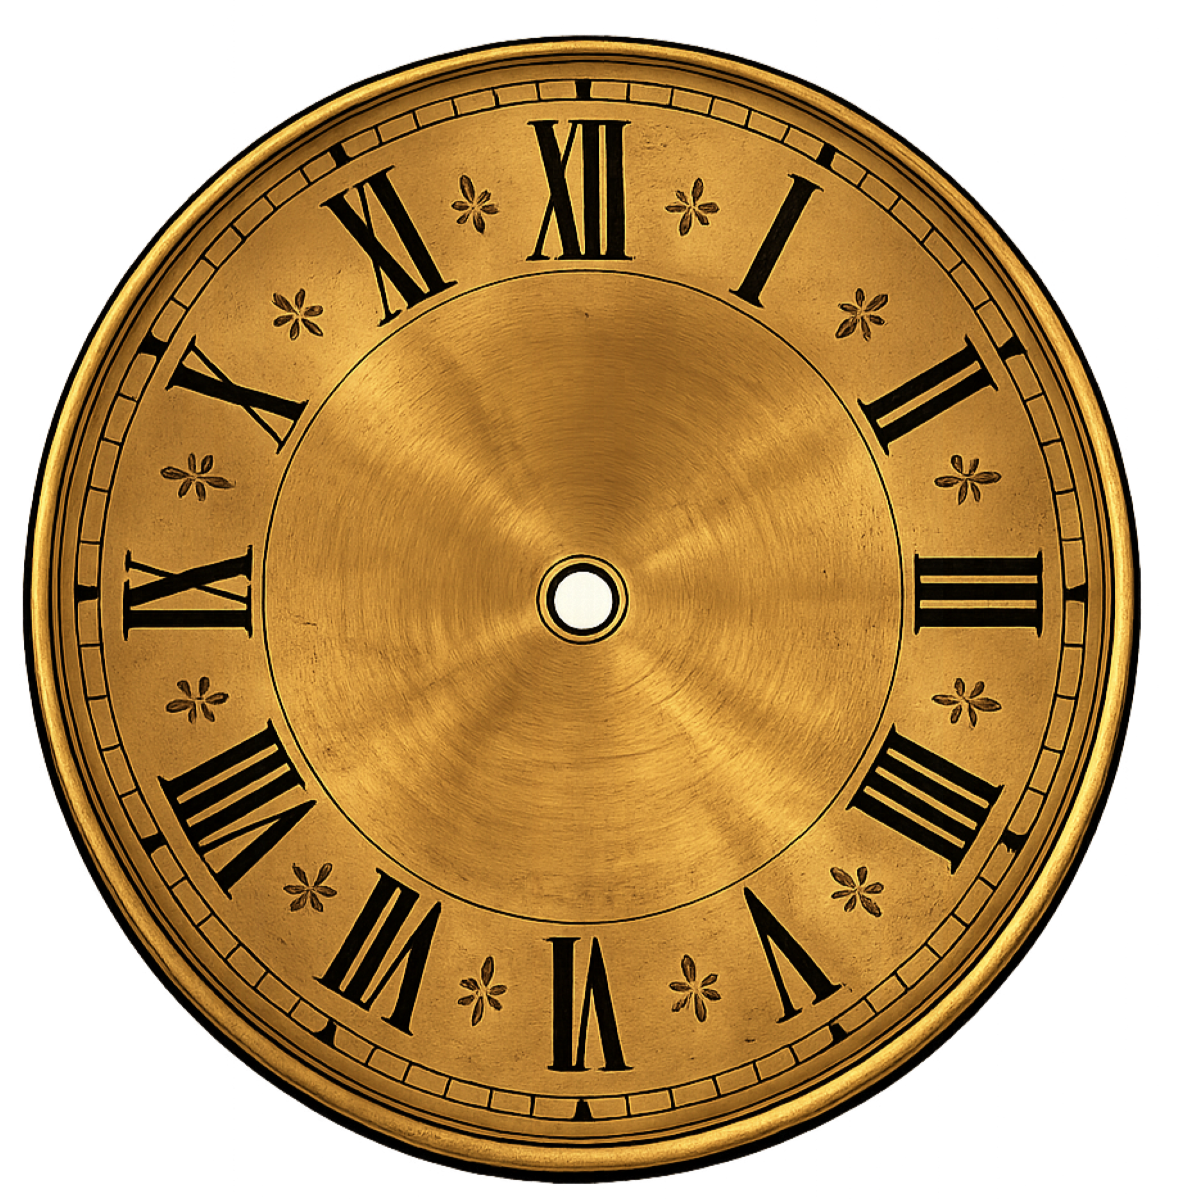
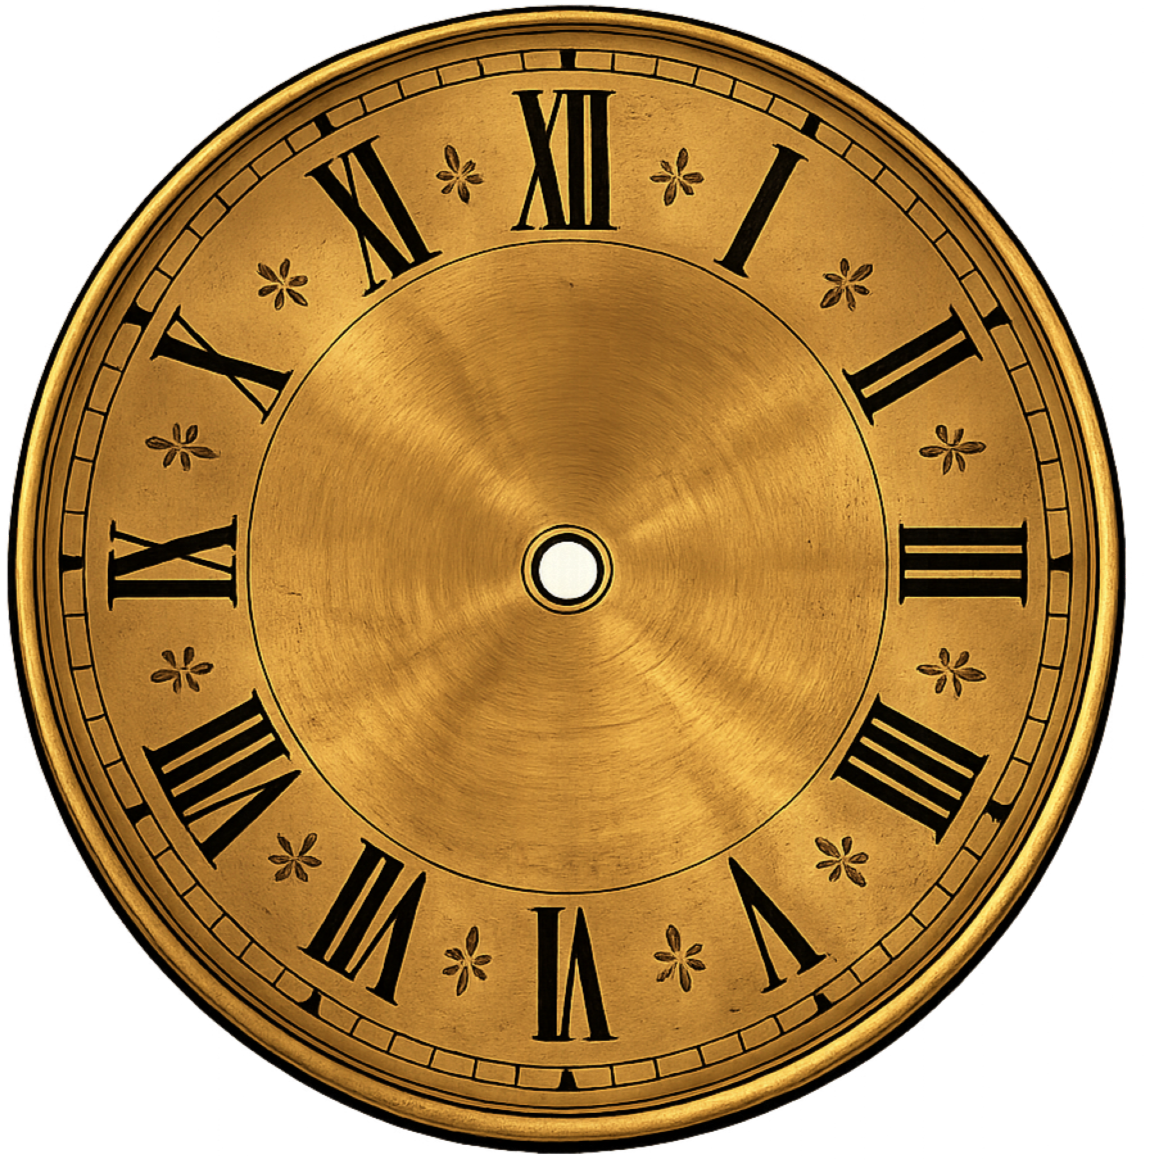
Add files via upload

diff --git a/index.html b/index.html
@@ -583,6 +583,15 @@
         <option value="faces/classic-cream.png">Classic Cream</option>
         <option value="faces/aged-brass.png">Aged Brass</option>
         <option value="faces/dark-victorian.png">Dark Victorian</option>
+        <option value="faces/railway-station.png">Railway Station</option>
+        <option value="faces/art-deco.png">Art Deco (1930s)</option>
+        <option value="faces/tiffany.png">Tiffany</option>
+        <option value="faces/french-enamel.png">French Enamel</option>
+        <option value="faces/black-forest.png">Black Forest</option>
+        <option value="faces/skeleton-clock.png">Skeleton Clock</option>
+        <option value="faces/steampunk.png">Steampunk</option>
+        <option value="faces/pocket-watch.png">Pocket Watch</option>
+        <option value="faces/vienna-regulator.png">Vienna Regulator</option>
       </select>
 
       <label for="imagePicker" style="margin-top:14px;">Upload Your Own Clock Face</label>